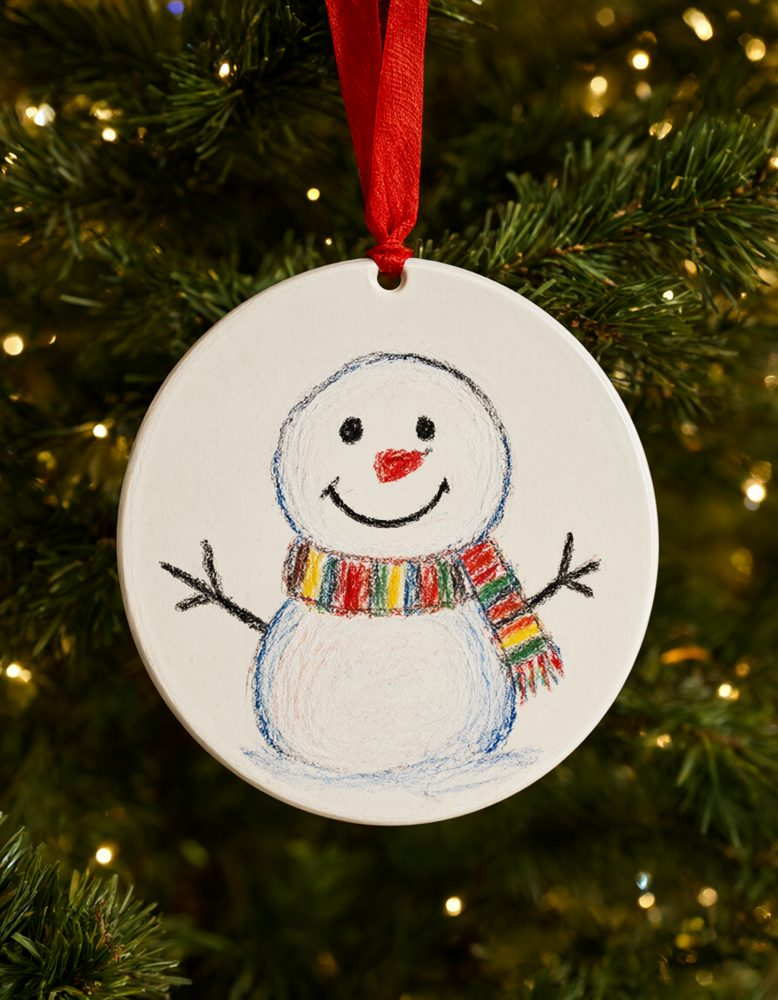
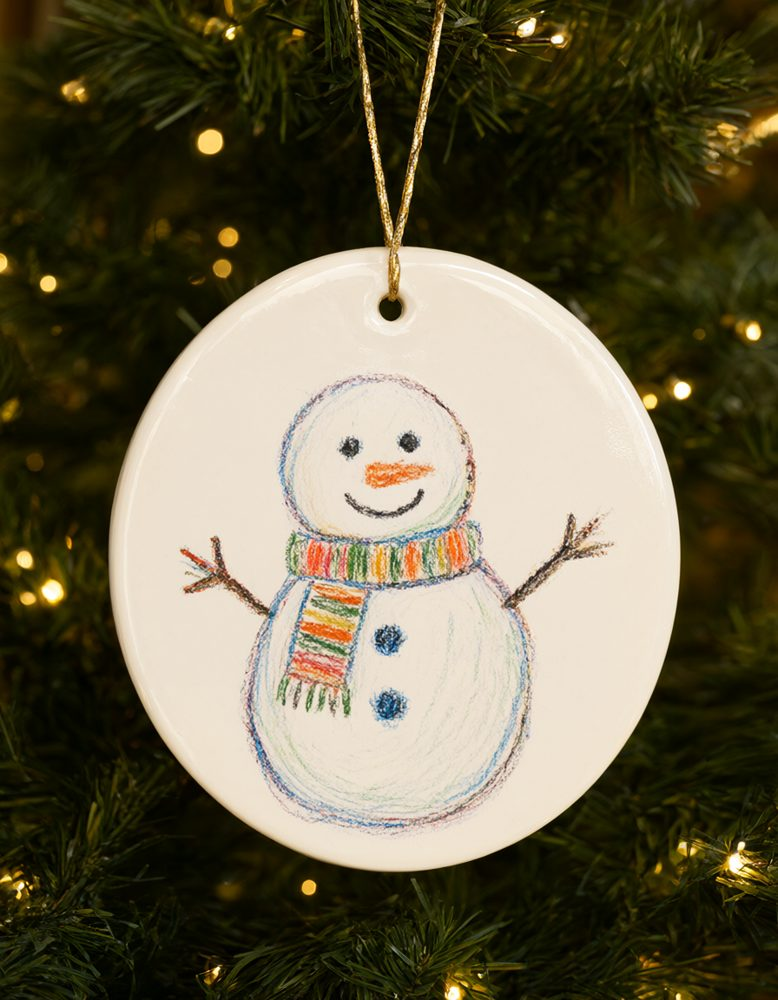
feat(christmas): placeholder product photos on /christmas, true to the real products
Founder: "use the placeholders you have in the mockup for the website". Concept images made locally
(Qwen, no third-party service; the drawings are synthetic sample art) and corrected to match what
Prodigi actually makes: the flat ceramic disc on its gold string, the plastic ball with chrome cap +
silver string, the natural cotton sack with its cream drawstring, and wrapping paper where each
paper is ONE drawing on repeat (white and kraft). The calendar concept is NOT used (its layout and
dates aren't the real product). Swap for photos of real samples when they land.

Also: a visual check for /christmas + /christmas/delivery-dates (tests/visual; seasonal pills and
the date table masked). Baselines still to be made on this machine.

diff --git a/src/app/(marketing)/christmas/page.tsx b/src/app/(marketing)/christmas/page.tsx
@@ -4,7 +4,6 @@ import Image from 'next/image';
 import Link from 'next/link';
 import { definedPriceList } from '@/server/catalogue';
 import { FAQ, plainAnswer } from '@/lib/faq';
-import { exampleBySlug } from '@/lib/examples';
 import { PARCEL_SAVING_PER_EXTRA_PENCE } from '@/pricing/parcels';
 import { Button } from '@/ui/primitives/Button';
 import { CaveatNote } from '@/ui/primitives/CaveatNote';
@@ -46,6 +45,20 @@ function shown(): Map<string, number> {
 }
 const gbp = (p: number) => `£${p % 100 ? (p / 100).toFixed(2) : p / 100}`;
 
+/**
+ * Placeholder product photos (founder, 2026-10-25: "use the placeholders … in time I'll produce some
+ * examples"). Brand-safe CONCEPT images — the drawings are synthetic sample art, not a real child's —
+ * made to match the real product: the flat ceramic disc on its gold string, the plastic ball with its
+ * chrome cap + silver string, the natural cotton sack with its cream drawstring, and wrap where each
+ * paper is ONE drawing on repeat (as ours is), on white and kraft. Swap for real
+ * photos of samples when they land.
+ */
+const PHOTO: Record<string, { src: string; w: number; h: number; alt: string }> = {
+  bauble: { src: '/christmas/bauble.webp', w: 896, h: 1152, alt: 'A flat round ceramic bauble printed with a child’s crayon snowman, hanging on a gold string on a Christmas tree' },
+  sack: { src: '/christmas/sack.webp', w: 1000, h: 778, alt: 'A natural cotton Christmas sack printed with a child’s crayon reindeer, by a fireplace' },
+  wrappingPaper: { src: '/christmas/presents.webp', w: 1200, h: 800, alt: 'A pile of presents, each wrapped in a different paper printed with a child’s drawing on repeat — stars, trees, reindeer and holly, on white and brown kraft' },
+};
+
 const LABELS: Record<string, { name: string; line: string }> = {
   bauble: { name: 'this year’s bauble', line: 'one for every christmas they’re little' },
   sack: { name: 'christmas sack', line: 'where the magic waits on christmas eve' },
@@ -67,8 +80,6 @@ const LABELS: Record<string, { name: string; line: string }> = {
 
 export default function ChristmasPage() {
   const prices = shown();
-  const card = exampleBySlug('christmascard');
-  const tee = exampleBySlug('christmastee');
   const christmasFaq = FAQ.find((s) => s.id === 'christmas')?.items ?? [];
   const jsonLd = {
     '@context': 'https://schema.org',
@@ -107,12 +118,12 @@ export default function ChristmasPage() {
           </div>
         </div>
         <div className="relative mx-auto mb-6 h-[420px] w-full max-w-[440px] sm:h-[380px] md:mb-0">
-          <figure className="polaroid tape absolute left-0 top-2 w-[68%]" style={{ ['--tilt' as string]: '-3deg', ['--tape' as string]: 'repeating-linear-gradient(-45deg, rgb(200 64 42 / 0.85) 0 7px, rgb(255 251 242 / 0.9) 7px 14px)' }}>
-            <Image src={card.src} alt={card.alt} width={card.width} height={card.height} className="h-auto w-full" priority />
-            <figcaption className="mt-1 text-center font-hand text-sm text-ink-soft">{card.caption}</figcaption>
+          <figure className="polaroid tape absolute left-0 top-2 w-[82%]" style={{ ['--tilt' as string]: '-3deg', ['--tape' as string]: 'repeating-linear-gradient(-45deg, rgb(200 64 42 / 0.85) 0 7px, rgb(255 251 242 / 0.9) 7px 14px)' }}>
+            <Image src="/christmas/ball-and-present.webp" alt="A plastic ball bauble printed with a child’s crayon Christmas tree, beside a present wrapped in that tree on repeat" width={1200} height={800} className="h-auto w-full" priority />
           </figure>
-          <figure className="polaroid tape absolute bottom-0 right-0 w-[52%]" style={{ ['--tilt' as string]: '5deg', ['--tape' as string]: 'repeating-linear-gradient(-45deg, rgb(127 166 94 / 0.85) 0 7px, rgb(255 251 242 / 0.9) 7px 14px)' }}>
-            <Image src={tee.src} alt={tee.alt} width={tee.width} height={tee.height} className="h-auto w-full" />
+          <figure className="polaroid tape absolute bottom-0 right-0 w-[40%]" style={{ ['--tilt' as string]: '6deg', ['--tape' as string]: 'repeating-linear-gradient(-45deg, rgb(127 166 94 / 0.85) 0 7px, rgb(255 251 242 / 0.9) 7px 14px)' }}>
+            <Image src={PHOTO.bauble!.src} alt={PHOTO.bauble!.alt} width={PHOTO.bauble!.w} height={PHOTO.bauble!.h} className="h-auto w-full" />
+            <figcaption className="mt-1 text-center font-hand text-sm text-ink-soft">this year’s bauble</figcaption>
           </figure>
         </div>
       </section>
@@ -143,8 +154,12 @@ export default function ChristmasPage() {
                       href={`/start-creating?for=${k}`}
                       className="press flex flex-1 flex-col overflow-hidden rounded-[18px] border-2 border-cocoa bg-paper shadow-[0_4px_0_var(--color-cocoa)]"
                     >
-                      <span className="flex aspect-square items-center justify-center bg-paper-2">
-                        <ProductArt product={k} size={120} />
+                      <span className="relative flex aspect-square items-center justify-center overflow-hidden bg-paper-2">
+                        {PHOTO[k] ? (
+                          <Image src={PHOTO[k].src} alt={PHOTO[k].alt} fill sizes="(min-width: 768px) 25vw, 50vw" className="object-cover" />
+                        ) : (
+                          <ProductArt product={k} size={120} />
+                        )}
                       </span>
                       <span className="flex flex-1 flex-col p-3">
                         <span className="font-extrabold text-cocoa">{LABELS[k]?.name ?? k}</span>

diff --git a/tests/visual/screens.spec.ts b/tests/visual/screens.spec.ts
@@ -48,6 +48,15 @@ for (const vp of WIDTHS) {
       await shot(page, `${vp.name}-help`);
     });
 
+    test('christmas page + last order dates (D24)', async ({ page }) => {
+      await quietCookies(page);
+      await page.goto('/christmas');
+      // the seasonal pills/strip depend on today's date — held out of the picture
+      await shot(page, `${vp.name}-christmas`, { mask: [page.locator('p:has(svg.tabler-icon-christmas-tree)')] });
+      await page.goto('/christmas/delivery-dates');
+      await shot(page, `${vp.name}-christmas-delivery-dates`, { mask: [page.locator('tbody')] });
+    });
+
     test('the range, customize, studio, placement, checkout', async ({ page }) => {
       test.setTimeout(180_000);
       await quietCookies(page);
